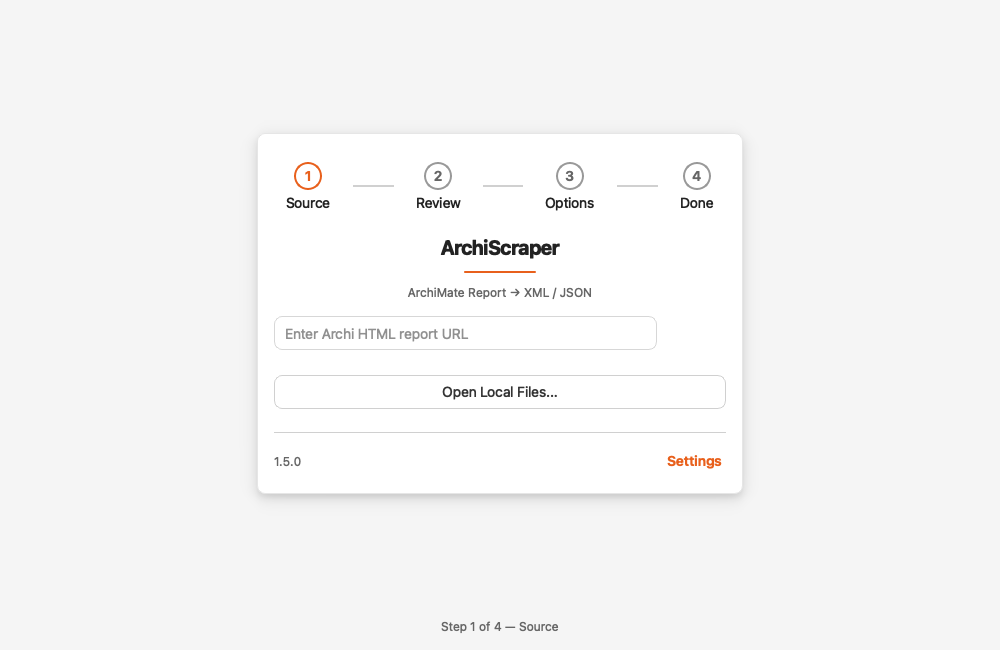
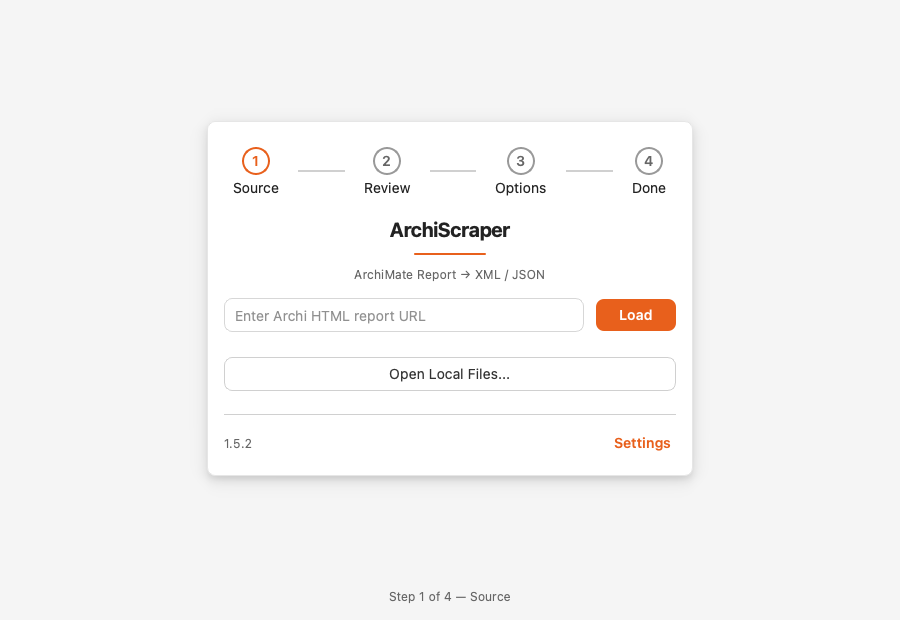
v1.5.2: fix Open in Browser URL, Load button visibility, update screenshot

diff --git a/scripts/ArchiScraperApp.py b/scripts/ArchiScraperApp.py
@@ -943,7 +943,7 @@ class ArchiScraperApp(QMainWindow):
         try:
             return metadata.version("archiscraper")
         except metadata.PackageNotFoundError:
-            return "1.5.0"
+            return "1.5.2"
 
     def _open_settings_dialog(self):
         dialog = SettingsDialog(self.user_agent_input.text(), self._get_timeout(), self)
